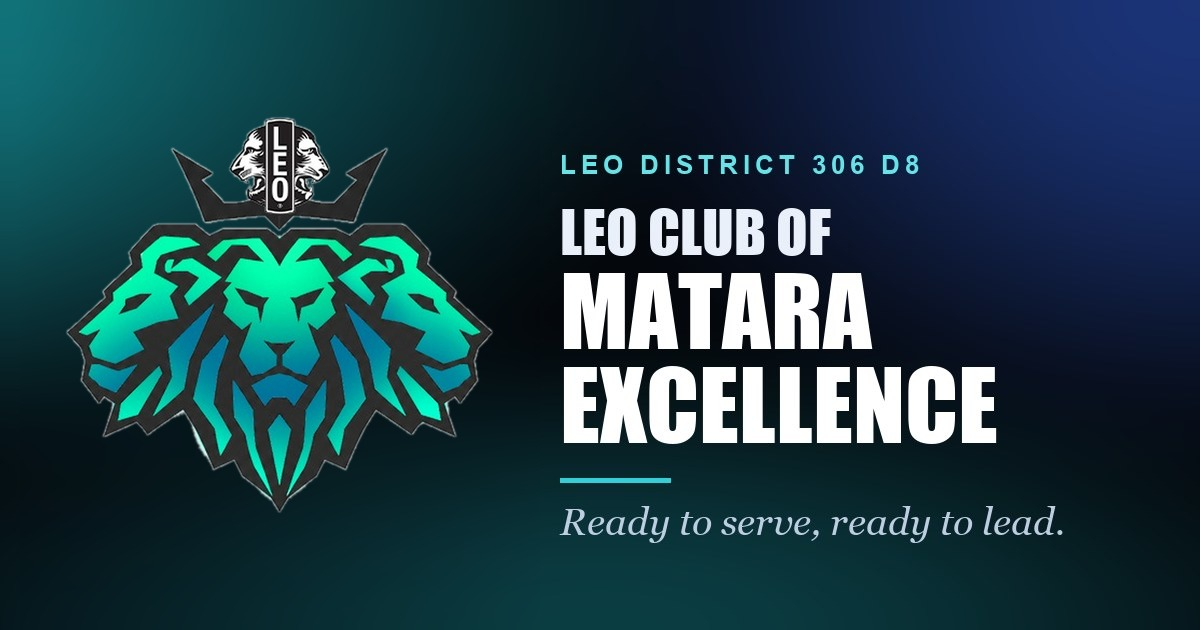
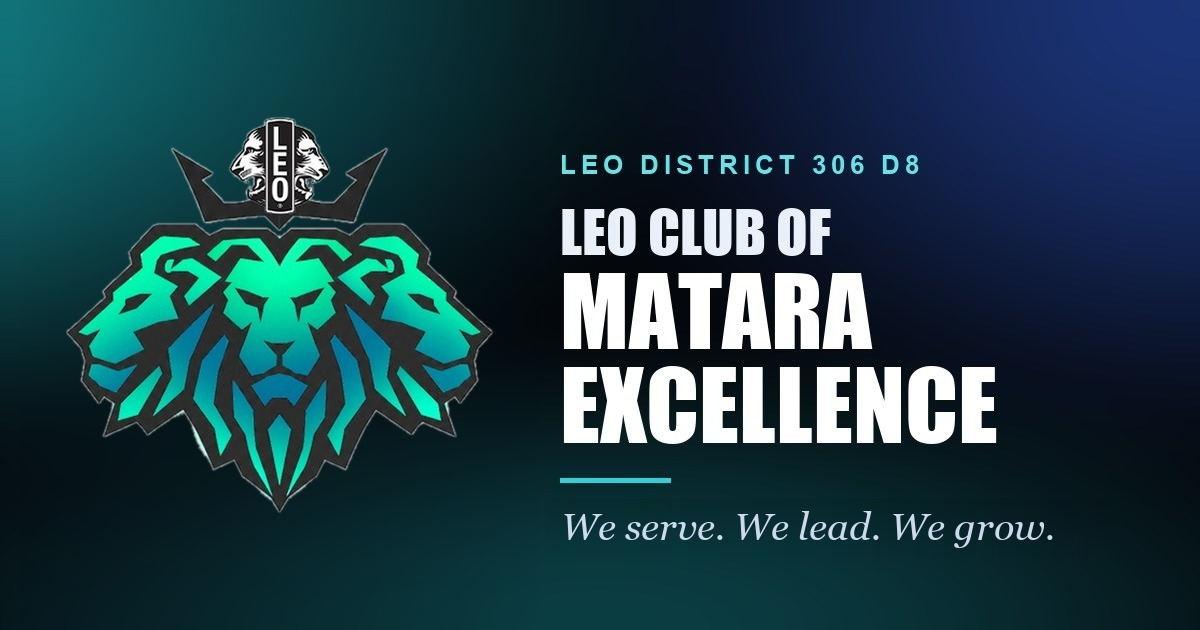
Update Director of Fundraising

Changed region(s): [[0.4625, 0.8143, 0.8942, 0.8746]]

diff --git a/index.html b/index.html
@@ -29,7 +29,7 @@
 <meta property="og:image" content="https://risathw.github.io/leo-matara-excellence/assets/og-image.jpg">
 <meta property="og:image:width" content="1200">
 <meta property="og:image:height" content="630">
-<meta property="og:image:alt" content="Leo Club of Matara Excellence, Leo District 306 D8: ready to serve, ready to lead">
+<meta property="og:image:alt" content="Leo Club of Matara Excellence, Leo District 306 D8: We serve. We lead. We grow.">
 <meta name="twitter:card" content="summary_large_image">
 <meta name="twitter:title" content="Leo Club Matara | Leo Club of Matara Excellence">
 <meta name="twitter:description" content="Leo Club of Matara Excellence: the Matara Leo club for young people aged 12 to 30 in Sri Lanka. Part of Leo District 306 D8 and Lions Clubs International. Join the Leos of Matara and serve with us.">
@@ -42,7 +42,7 @@
 <script>document.documentElement.dataset.theme="dark";try{var t=localStorage.getItem("theme");if(t==="light"||t==="dark")document.documentElement.dataset.theme=t}catch(e){}</script>
 <style>.loader{position:fixed;inset:0;z-index:100;display:grid;place-items:center;background:#fff}[data-theme="dark"] .loader{background:#04070b}.lg{width:clamp(170px,30vw,230px)}.lg img{display:block;width:100%;height:auto}.lg img.lg-dark{display:none}[data-theme="dark"] .lg img.lg-light{display:none}[data-theme="dark"] .lg img.lg-dark{display:block}.loader.done{opacity:0;visibility:hidden}</style>
 <link rel="stylesheet" href="style.css?v=108">
-<script type="application/ld+json">{"@context":"https://schema.org","@type":"NGO","@id":"https://risathw.github.io/leo-matara-excellence/#org","name":"Leo Club of Matara Excellence","alternateName":["Leo Club Matara","Matara Leo Club","Leos of Matara","Leo Club of Matara Excellence, Leo District 306 D8","Leos of Matara Excellence"],"url":"https://risathw.github.io/leo-matara-excellence/","logo":{"@type":"ImageObject","url":"https://risathw.github.io/leo-matara-excellence/assets/logo.png","width":642,"height":658},"image":"https://risathw.github.io/leo-matara-excellence/assets/og-image.jpg","description":"A youth service club in Matara, Sri Lanka, for young people aged 12 to 30. Part of Leo District 306 D8 and Leo Multiple District 306, the youth side of Lions Clubs International.","slogan":"Ready to serve, ready to lead","areaServed":{"@type":"City","name":"Matara"},"address":{"@type":"PostalAddress","addressLocality":"Matara","addressRegion":"Southern Province","addressCountry":"LK"},"parentOrganization":{"@type":"Organization","name":"Lions Clubs International","url":"https://www.lionsclubs.org/"},"memberOf":{"@type":"Organization","name":"Leo Multiple District 306","url":"https://www.leomd306.org/"},"sponsor":{"@type":"Organization","name":"Lions Club of Matara Excellence"},"sameAs":["https://www.instagram.com/matara.excellence.leos","https://www.facebook.com/profile.php?id=61595289107476","https://whatsapp.com/channel/0029Vb9g23i0gcfIGltiPW1H","https://www.leomd306.org/"]}</script>
+<script type="application/ld+json">{"@context":"https://schema.org","@type":"NGO","@id":"https://risathw.github.io/leo-matara-excellence/#org","name":"Leo Club of Matara Excellence","alternateName":["Leo Club Matara","Matara Leo Club","Leos of Matara","Leo Club of Matara Excellence, Leo District 306 D8","Leos of Matara Excellence"],"url":"https://risathw.github.io/leo-matara-excellence/","logo":{"@type":"ImageObject","url":"https://risathw.github.io/leo-matara-excellence/assets/logo.png","width":642,"height":658},"image":"https://risathw.github.io/leo-matara-excellence/assets/og-image.jpg","description":"A youth service club in Matara, Sri Lanka, for young people aged 12 to 30. Part of Leo District 306 D8 and Leo Multiple District 306, the youth side of Lions Clubs International.","slogan":"We serve. We lead. We grow.","areaServed":{"@type":"City","name":"Matara"},"address":{"@type":"PostalAddress","addressLocality":"Matara","addressRegion":"Southern Province","addressCountry":"LK"},"parentOrganization":{"@type":"Organization","name":"Lions Clubs International","url":"https://www.lionsclubs.org/"},"memberOf":{"@type":"Organization","name":"Leo Multiple District 306","url":"https://www.leomd306.org/"},"sponsor":{"@type":"Organization","name":"Lions Club of Matara Excellence"},"sameAs":["https://www.instagram.com/matara.excellence.leos","https://www.facebook.com/profile.php?id=61595289107476","https://whatsapp.com/channel/0029Vb9g23i0gcfIGltiPW1H","https://www.leomd306.org/"]}</script>
 <script type="application/ld+json">{"@context":"https://schema.org","@type":"WebSite","@id":"https://risathw.github.io/leo-matara-excellence/#website","url":"https://risathw.github.io/leo-matara-excellence/","name":"Leo Club of Matara Excellence","inLanguage":"en","publisher":{"@id":"https://risathw.github.io/leo-matara-excellence/#org"}}</script>
 </head>
 <body>
@@ -74,7 +74,7 @@
 <section class="hero">
   <span class="watermark" aria-hidden="true">26/27</span>
   <div class="hero-text">
-    <p class="eyebrow">Leo District 306 D8. Ready to serve, ready to lead.</p>
+    <p class="eyebrow">Leo District 306 D8. We serve. We lead. We grow.</p>
     <div class="hero-heads">
       <div class="hs active"><h1>Young people. <em>Real work.</em></h1><p class="lead">We’re a brand-new Leo club in Matara. Our first step was an orientation with Leos from across District 306 D8. Come and help us write the rest.</p></div>
       <div class="hs"><p class="h1">Ready to <em>serve</em></p><p class="lead">Leo Abhivandana and Amadam Sisila were successfully completed on Vap Poya, 25 October. Thank you to everyone who joined us.</p></div>
@@ -135,7 +135,7 @@
 
 <section class="tagline" aria-label="Our promise">
   <div class="wrap">
-    <p class="tagline-text" data-words>Ready to serve, ready to lead. Real work for our community, every single day.</p>
+    <p class="tagline-text" data-words>We serve. We lead. We grow. Real work for our community, every single day.</p>
   </div>
 </section>
 
@@ -259,7 +259,7 @@
 
 <a class="sticky-cta" id="sticky-cta" href="join.html">Become a Leo <i aria-hidden="true">→</i></a>
 
-<script src="team-data.js?v=7"></script>
+<script src="team-data.js?v=8"></script>
 <script src="team.js?v=7"></script>
 <script src="magazine-data.js?v=1"></script>
 <script src="magazine.js?v=4"></script>

diff --git a/about.html b/about.html
@@ -29,7 +29,7 @@
 <meta property="og:image" content="https://risathw.github.io/leo-matara-excellence/assets/og-image.jpg">
 <meta property="og:image:width" content="1200">
 <meta property="og:image:height" content="630">
-<meta property="og:image:alt" content="Leo Club of Matara Excellence, Leo District 306 D8: ready to serve, ready to lead">
+<meta property="og:image:alt" content="Leo Club of Matara Excellence, Leo District 306 D8: We serve. We lead. We grow.">
 <meta name="twitter:card" content="summary_large_image">
 <meta name="twitter:title" content="About | Leo Club of Matara Excellence">
 <meta name="twitter:description" content="Our story, how Leo fits into Lions Clubs International, the history of the movement, and the officers who lead the Leo Club of Matara Excellence.">
@@ -41,7 +41,7 @@
 <script>document.documentElement.dataset.theme="dark";try{var t=localStorage.getItem("theme");if(t==="light"||t==="dark")document.documentElement.dataset.theme=t}catch(e){}</script>
 <style>.loader{position:fixed;inset:0;z-index:100;display:grid;place-items:center;background:#fff}[data-theme="dark"] .loader{background:#04070b}.lg{width:clamp(170px,30vw,230px)}.lg img{display:block;width:100%;height:auto}.lg img.lg-dark{display:none}[data-theme="dark"] .lg img.lg-light{display:none}[data-theme="dark"] .lg img.lg-dark{display:block}.loader.done{opacity:0;visibility:hidden}</style>
 <link rel="stylesheet" href="style.css?v=108">
-<script type="application/ld+json">{"@context":"https://schema.org","@type":"NGO","@id":"https://risathw.github.io/leo-matara-excellence/#org","name":"Leo Club of Matara Excellence","alternateName":["Leo Club of Matara Excellence, Leo District 306 D8","Leos of Matara Excellence"],"url":"https://risathw.github.io/leo-matara-excellence/","logo":{"@type":"ImageObject","url":"https://risathw.github.io/leo-matara-excellence/assets/logo.png","width":642,"height":658},"image":"https://risathw.github.io/leo-matara-excellence/assets/og-image.jpg","description":"A youth service club in Matara, Sri Lanka, for young people aged 12 to 30. Part of Leo District 306 D8 and Leo Multiple District 306, the youth side of Lions Clubs International.","slogan":"Ready to serve, ready to lead","areaServed":{"@type":"City","name":"Matara"},"address":{"@type":"PostalAddress","addressLocality":"Matara","addressRegion":"Southern Province","addressCountry":"LK"},"parentOrganization":{"@type":"Organization","name":"Lions Clubs International","url":"https://www.lionsclubs.org/"},"memberOf":{"@type":"Organization","name":"Leo Multiple District 306","url":"https://www.leomd306.org/"},"sponsor":{"@type":"Organization","name":"Lions Club of Matara Excellence"},"sameAs":["https://www.instagram.com/matara.excellence.leos","https://www.facebook.com/profile.php?id=61595289107476","https://whatsapp.com/channel/0029Vb9g23i0gcfIGltiPW1H","https://www.leomd306.org/"]}</script>
+<script type="application/ld+json">{"@context":"https://schema.org","@type":"NGO","@id":"https://risathw.github.io/leo-matara-excellence/#org","name":"Leo Club of Matara Excellence","alternateName":["Leo Club of Matara Excellence, Leo District 306 D8","Leos of Matara Excellence"],"url":"https://risathw.github.io/leo-matara-excellence/","logo":{"@type":"ImageObject","url":"https://risathw.github.io/leo-matara-excellence/assets/logo.png","width":642,"height":658},"image":"https://risathw.github.io/leo-matara-excellence/assets/og-image.jpg","description":"A youth service club in Matara, Sri Lanka, for young people aged 12 to 30. Part of Leo District 306 D8 and Leo Multiple District 306, the youth side of Lions Clubs International.","slogan":"We serve. We lead. We grow.","areaServed":{"@type":"City","name":"Matara"},"address":{"@type":"PostalAddress","addressLocality":"Matara","addressRegion":"Southern Province","addressCountry":"LK"},"parentOrganization":{"@type":"Organization","name":"Lions Clubs International","url":"https://www.lionsclubs.org/"},"memberOf":{"@type":"Organization","name":"Leo Multiple District 306","url":"https://www.leomd306.org/"},"sponsor":{"@type":"Organization","name":"Lions Club of Matara Excellence"},"sameAs":["https://www.instagram.com/matara.excellence.leos","https://www.facebook.com/profile.php?id=61595289107476","https://whatsapp.com/channel/0029Vb9g23i0gcfIGltiPW1H","https://www.leomd306.org/"]}</script>
 <script type="application/ld+json">{"@context":"https://schema.org","@type":"BreadcrumbList","itemListElement":[{"@type":"ListItem","position":1,"name":"Home","item":"https://risathw.github.io/leo-matara-excellence/"},{"@type":"ListItem","position":2,"name":"About","item":"https://risathw.github.io/leo-matara-excellence/about.html"}]}</script>
 </head>
 <body>
@@ -168,7 +168,7 @@
 
 <a class="sticky-cta" id="sticky-cta" href="join.html">Become a Leo <i aria-hidden="true">→</i></a>
 
-<script src="team-data.js?v=7"></script>
+<script src="team-data.js?v=8"></script>
 <script src="team.js?v=2"></script>
 <script src="script.js?v=38"></script>
 </body>

diff --git a/privacy.html b/privacy.html
@@ -28,7 +28,7 @@
 <meta property="og:image" content="https://risathw.github.io/leo-matara-excellence/assets/og-image.jpg">
 <meta property="og:image:width" content="1200">
 <meta property="og:image:height" content="630">
-<meta property="og:image:alt" content="Leo Club of Matara Excellence, Leo District 306 D8: ready to serve, ready to lead">
+<meta property="og:image:alt" content="Leo Club of Matara Excellence, Leo District 306 D8: We serve. We lead. We grow.">
 <meta name="twitter:card" content="summary_large_image">
 <meta name="twitter:title" content="Privacy policy | Leo Club of Matara Excellence">
 <meta name="twitter:description" content="How the Leo Club of Matara Excellence handles the details you share with us.">
@@ -80,7 +80,7 @@
 <section class="sec alt legal-sec"><div class="wrap"><h2>Photos and videos</h2><p>We post photos and videos from our service projects. If you appear in one and would like it removed, message us on Instagram or email <a class="inline" href="mailto:leoclubofmataraexcellence@gmail.com">leoclubofmataraexcellence@gmail.com</a> and we will take it down.</p></div></section>
 <section class="sec legal-sec"><div class="wrap"><h2>Third party services</h2><p>The site loads fonts from Google Fonts and links to Instagram, Facebook and WhatsApp. Those services may record your visit under their own policies. We do not run advertising trackers.</p></div></section>
 <section class="sec alt legal-sec"><div class="wrap"><h2>Your choices</h2><p>You can ask us to correct or delete the details you sent us at any time. Message us on Instagram or email <a class="inline" href="mailto:leoclubofmataraexcellence@gmail.com">leoclubofmataraexcellence@gmail.com</a> and a club officer will reply.</p></div></section>
-<section class="sec legal-sec"><div class="wrap"><h2>Updates</h2><p>We may update this page as the club grows. The date of the latest update is shown below.</p><p class="small">Last updated: 6 November 2026</p></div></section>
+<section class="sec legal-sec"><div class="wrap"><h2>Updates</h2><p>We may update this page as the club grows. The date of the latest update is shown below.</p><p class="small">Last updated: 11 November 2026</p></div></section>
 </main>
 
 <footer>
@@ -96,7 +96,7 @@
 </footer>
 
 
-<script src="team-data.js?v=7"></script>
+<script src="team-data.js?v=8"></script>
 <script src="team.js?v=2"></script>
 <script src="script.js?v=38"></script>
 </body>

diff --git a/terms.html b/terms.html
@@ -28,7 +28,7 @@
 <meta property="og:image" content="https://risathw.github.io/leo-matara-excellence/assets/og-image.jpg">
 <meta property="og:image:width" content="1200">
 <meta property="og:image:height" content="630">
-<meta property="og:image:alt" content="Leo Club of Matara Excellence, Leo District 306 D8: ready to serve, ready to lead">
+<meta property="og:image:alt" content="Leo Club of Matara Excellence, Leo District 306 D8: We serve. We lead. We grow.">
 <meta name="twitter:card" content="summary_large_image">
 <meta name="twitter:title" content="Terms of use | Leo Club of Matara Excellence">
 <meta name="twitter:description" content="The simple rules for using the Leo Club of Matara Excellence website.">
@@ -79,7 +79,7 @@
 <section class="sec legal-sec"><div class="wrap"><h2>Joining the club</h2><p>Sending the Join form is an expression of interest and not a membership. A club officer will contact you about the next steps. Leos aged 12 to 18 are Alpha Leos, and those aged 18 to 30 are Omega Leos.</p></div></section>
 <section class="sec alt legal-sec"><div class="wrap"><h2>Event information</h2><p>Dates and details are shared in good faith and can change. Check our Instagram for the latest news before you travel.</p></div></section>
 <section class="sec legal-sec"><div class="wrap"><h2>External links</h2><p>We link to other sites, such as Instagram, Facebook and Leo Multiple District 306. We are not responsible for their content.</p></div></section>
-<section class="sec alt legal-sec"><div class="wrap"><h2>Contact</h2><p>Questions about these terms? Message us on Instagram or email <a class="inline" href="mailto:leoclubofmataraexcellence@gmail.com">leoclubofmataraexcellence@gmail.com</a> and a club officer will reply.</p><p class="small">Last updated: 6 November 2026</p></div></section>
+<section class="sec alt legal-sec"><div class="wrap"><h2>Contact</h2><p>Questions about these terms? Message us on Instagram or email <a class="inline" href="mailto:leoclubofmataraexcellence@gmail.com">leoclubofmataraexcellence@gmail.com</a> and a club officer will reply.</p><p class="small">Last updated: 11 November 2026</p></div></section>
 </main>
 
 <footer>
@@ -95,7 +95,7 @@
 </footer>
 
 
-<script src="team-data.js?v=7"></script>
+<script src="team-data.js?v=8"></script>
 <script src="team.js?v=2"></script>
 <script src="script.js?v=38"></script>
 </body>

diff --git a/project-district-orientation.html b/project-district-orientation.html
@@ -29,7 +29,7 @@
 <meta property="og:image" content="https://risathw.github.io/leo-matara-excellence/assets/og-image.jpg">
 <meta property="og:image:width" content="1200">
 <meta property="og:image:height" content="630">
-<meta property="og:image:alt" content="Leo Club of Matara Excellence, Leo District 306 D8: ready to serve, ready to lead">
+<meta property="og:image:alt" content="Leo Club of Matara Excellence, Leo District 306 D8: We serve. We lead. We grow.">
 <meta name="twitter:card" content="summary_large_image">
 <meta name="twitter:title" content="District Orientation | Leo Club of Matara Excellence">
 <meta name="twitter:description" content="Our first step as a club. We joined Leos from across District 306 D8, learned how the movement works, and said a heartfelt thank you to everyone who stood with us.">
@@ -100,7 +100,7 @@
 
 <a class="sticky-cta" id="sticky-cta" href="join.html">Become a Leo <i aria-hidden="true">→</i></a>
 
-<script src="team-data.js?v=7"></script>
+<script src="team-data.js?v=8"></script>
 <script src="team.js?v=2"></script>
 <script src="script.js?v=38"></script>
 </body>

diff --git a/causes.html b/causes.html
@@ -29,7 +29,7 @@
 <meta property="og:image" content="https://risathw.github.io/leo-matara-excellence/assets/og-image.jpg">
 <meta property="og:image:width" content="1200">
 <meta property="og:image:height" content="630">
-<meta property="og:image:alt" content="Leo Club of Matara Excellence, Leo District 306 D8: ready to serve, ready to lead">
+<meta property="og:image:alt" content="Leo Club of Matara Excellence, Leo District 306 D8: We serve. We lead. We grow.">
 <meta name="twitter:card" content="summary_large_image">
 <meta name="twitter:title" content="Our Causes | Leo Club of Matara Excellence">
 <meta name="twitter:description" content="The 21 causes Leo clubs work on, from children and health to environment and disaster relief, and how the Leo Club of Matara Excellence can serve them.">
@@ -283,7 +283,7 @@
 
 <a class="sticky-cta" id="sticky-cta" href="join.html">Become a Leo <i aria-hidden="true">→</i></a>
 
-<script src="team-data.js?v=7"></script>
+<script src="team-data.js?v=8"></script>
 <script src="team.js?v=2"></script>
 <script src="script.js?v=38"></script>
 </body>

diff --git a/project-amadam-sisila.html b/project-amadam-sisila.html
@@ -29,7 +29,7 @@
 <meta property="og:image" content="https://risathw.github.io/leo-matara-excellence/assets/og-image.jpg">
 <meta property="og:image:width" content="1200">
 <meta property="og:image:height" content="630">
-<meta property="og:image:alt" content="Leo Club of Matara Excellence, Leo District 306 D8: ready to serve, ready to lead">
+<meta property="og:image:alt" content="Leo Club of Matara Excellence, Leo District 306 D8: We serve. We lead. We grow.">
 <meta name="twitter:card" content="summary_large_image">
 <meta name="twitter:title" content="Amadam Sisila | Leo Club of Matara Excellence">
 <meta name="twitter:description" content="A Leo mission built on giving and loving-kindness, for the people who gathered at the pirivena on Vap Poya. Successfully completed.">
@@ -101,7 +101,7 @@
 
 <a class="sticky-cta" id="sticky-cta" href="join.html">Become a Leo <i aria-hidden="true">→</i></a>
 
-<script src="team-data.js?v=7"></script>
+<script src="team-data.js?v=8"></script>
 <script src="team.js?v=2"></script>
 <script src="script.js?v=38"></script>
 </body>

diff --git a/project-leo-abhivandana.html b/project-leo-abhivandana.html
@@ -29,7 +29,7 @@
 <meta property="og:image" content="https://risathw.github.io/leo-matara-excellence/assets/og-image.jpg">
 <meta property="og:image:width" content="1200">
 <meta property="og:image:height" content="630">
-<meta property="og:image:alt" content="Leo Club of Matara Excellence, Leo District 306 D8: ready to serve, ready to lead">
+<meta property="og:image:alt" content="Leo Club of Matara Excellence, Leo District 306 D8: We serve. We lead. We grow.">
 <meta name="twitter:card" content="summary_large_image">
 <meta name="twitter:title" content="Leo Abhivandana | Leo Club of Matara Excellence">
 <meta name="twitter:description" content="An evening at Sri Pushparama Pirivena on Vap Poya, asking for blessings as the club took its next step. Successfully completed.">
@@ -100,7 +100,7 @@
 
 <a class="sticky-cta" id="sticky-cta" href="join.html">Become a Leo <i aria-hidden="true">→</i></a>
 
-<script src="team-data.js?v=7"></script>
+<script src="team-data.js?v=8"></script>
 <script src="team.js?v=2"></script>
 <script src="script.js?v=38"></script>
 </body>

diff --git a/magazine.html b/magazine.html
@@ -29,7 +29,7 @@
 <meta property="og:image" content="https://risathw.github.io/leo-matara-excellence/assets/og-image.jpg">
 <meta property="og:image:width" content="1200">
 <meta property="og:image:height" content="630">
-<meta property="og:image:alt" content="Leo Club of Matara Excellence, Leo District 306 D8: ready to serve, ready to lead">
+<meta property="og:image:alt" content="Leo Club of Matara Excellence, Leo District 306 D8: We serve. We lead. We grow.">
 <meta name="twitter:card" content="summary_large_image">
 <meta name="twitter:title" content="Magazine | Leo Club of Matara Excellence">
 <meta name="twitter:description" content="The magazine of the Leo Club of Matara Excellence: stories, projects and people from our club.">
@@ -112,7 +112,7 @@
 
 <a class="sticky-cta" id="sticky-cta" href="join.html">Become a Leo <i aria-hidden="true">→</i></a>
 
-<script src="team-data.js?v=7"></script>
+<script src="team-data.js?v=8"></script>
 <script src="team.js?v=2"></script>
 <script src="magazine-data.js?v=1"></script>
 <script src="magazine.js?v=2"></script>

diff --git a/events.html b/events.html
@@ -29,7 +29,7 @@
 <meta property="og:image" content="https://risathw.github.io/leo-matara-excellence/assets/og-image.jpg">
 <meta property="og:image:width" content="1200">
 <meta property="og:image:height" content="630">
-<meta property="og:image:alt" content="Leo Club of Matara Excellence, Leo District 306 D8: ready to serve, ready to lead">
+<meta property="og:image:alt" content="Leo Club of Matara Excellence, Leo District 306 D8: We serve. We lead. We grow.">
 <meta name="twitter:card" content="summary_large_image">
 <meta name="twitter:title" content="Events | Leo Club of Matara Excellence">
 <meta name="twitter:description" content="Events from the Leo Club of Matara Excellence. Leo Abhivandana and Amadam Sisila were successfully completed on Vap Poya, 25 October.">
@@ -156,7 +156,7 @@
 
 <a class="sticky-cta" id="sticky-cta" href="join.html">Become a Leo <i aria-hidden="true">→</i></a>
 
-<script src="team-data.js?v=7"></script>
+<script src="team-data.js?v=8"></script>
 <script src="team.js?v=2"></script>
 <script src="script.js?v=38"></script>
 </body>

diff --git a/projects.html b/projects.html
@@ -29,7 +29,7 @@
 <meta property="og:image" content="https://risathw.github.io/leo-matara-excellence/assets/og-image.jpg">
 <meta property="og:image:width" content="1200">
 <meta property="og:image:height" content="630">
-<meta property="og:image:alt" content="Leo Club of Matara Excellence, Leo District 306 D8: ready to serve, ready to lead">
+<meta property="og:image:alt" content="Leo Club of Matara Excellence, Leo District 306 D8: We serve. We lead. We grow.">
 <meta name="twitter:card" content="summary_large_image">
 <meta name="twitter:title" content="Past projects | Leo Club of Matara Excellence">
 <meta name="twitter:description" content="Past projects of the Leo Club of Matara Excellence: District Orientation, Leo Abhivandana and Amadam Sisila.">
@@ -109,7 +109,7 @@
 
 <a class="sticky-cta" id="sticky-cta" href="join.html">Become a Leo <i aria-hidden="true">→</i></a>
 
-<script src="team-data.js?v=7"></script>
+<script src="team-data.js?v=8"></script>
 <script src="team.js?v=2"></script>
 <script src="script.js?v=38"></script>
 </body>

diff --git a/leo-md306.html b/leo-md306.html
@@ -28,7 +28,7 @@
 <meta property="og:image" content="https://risathw.github.io/leo-matara-excellence/assets/og-image.jpg">
 <meta property="og:image:width" content="1200">
 <meta property="og:image:height" content="630">
-<meta property="og:image:alt" content="Leo Club of Matara Excellence, Leo District 306 D8: ready to serve, ready to lead">
+<meta property="og:image:alt" content="Leo Club of Matara Excellence, Leo District 306 D8: We serve. We lead. We grow.">
 <meta name="twitter:card" content="summary_large_image">
 <meta name="twitter:title" content="Leos of Sri Lanka and Maldives | Leo Club of Matara Excellence">
 <meta name="twitter:description" content="Leo Multiple District 306 is the national family of Leo clubs in Sri Lanka and the Maldives. See how it is organised and where the Leo Club of Matara Excellence fits in.">
@@ -93,7 +93,7 @@
 </footer>
 
 
-<script src="team-data.js?v=7"></script>
+<script src="team-data.js?v=8"></script>
 <script src="team.js?v=2"></script>
 <script src="script.js?v=38"></script>
 </body>
